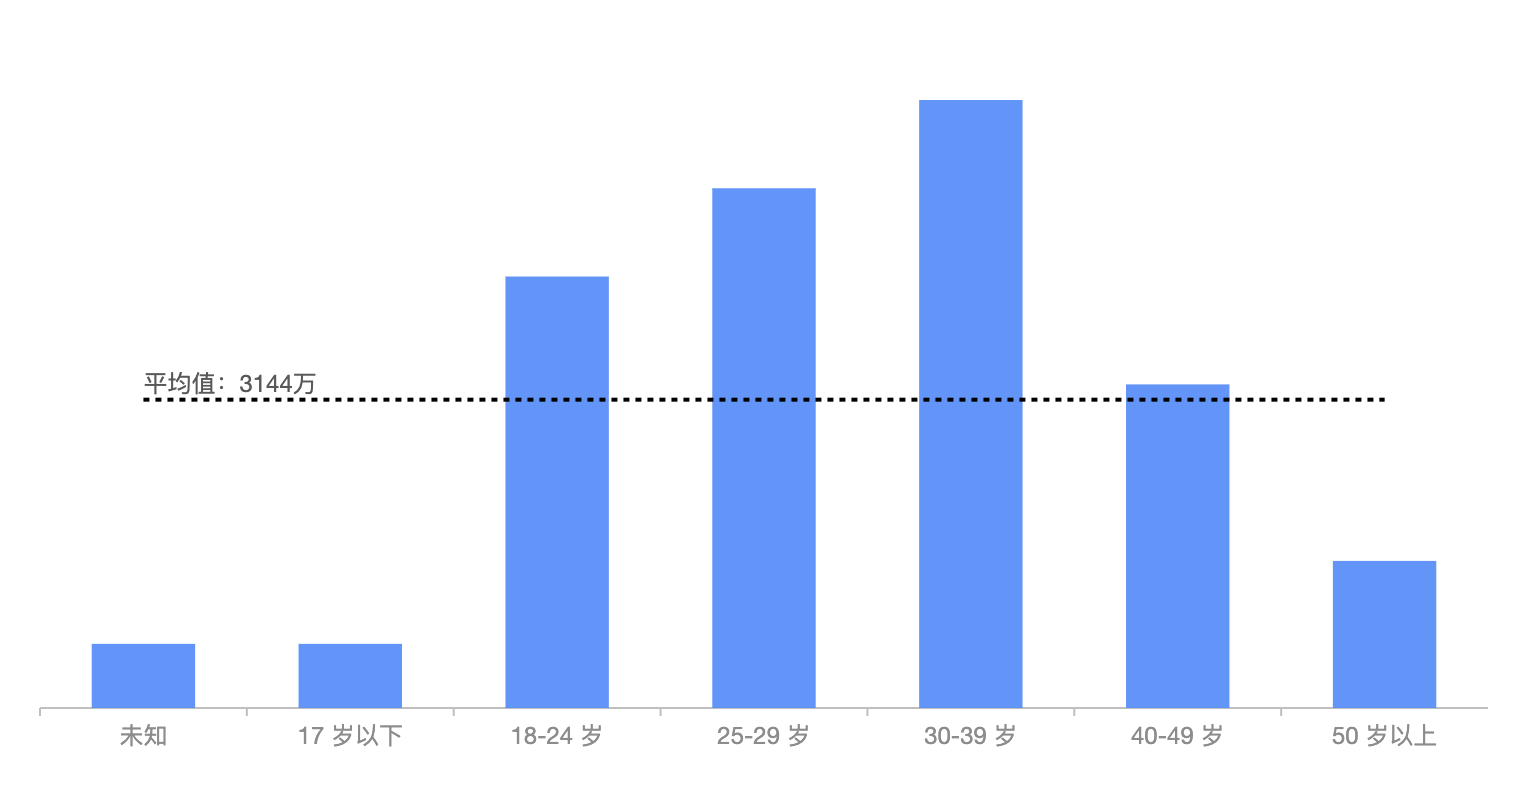
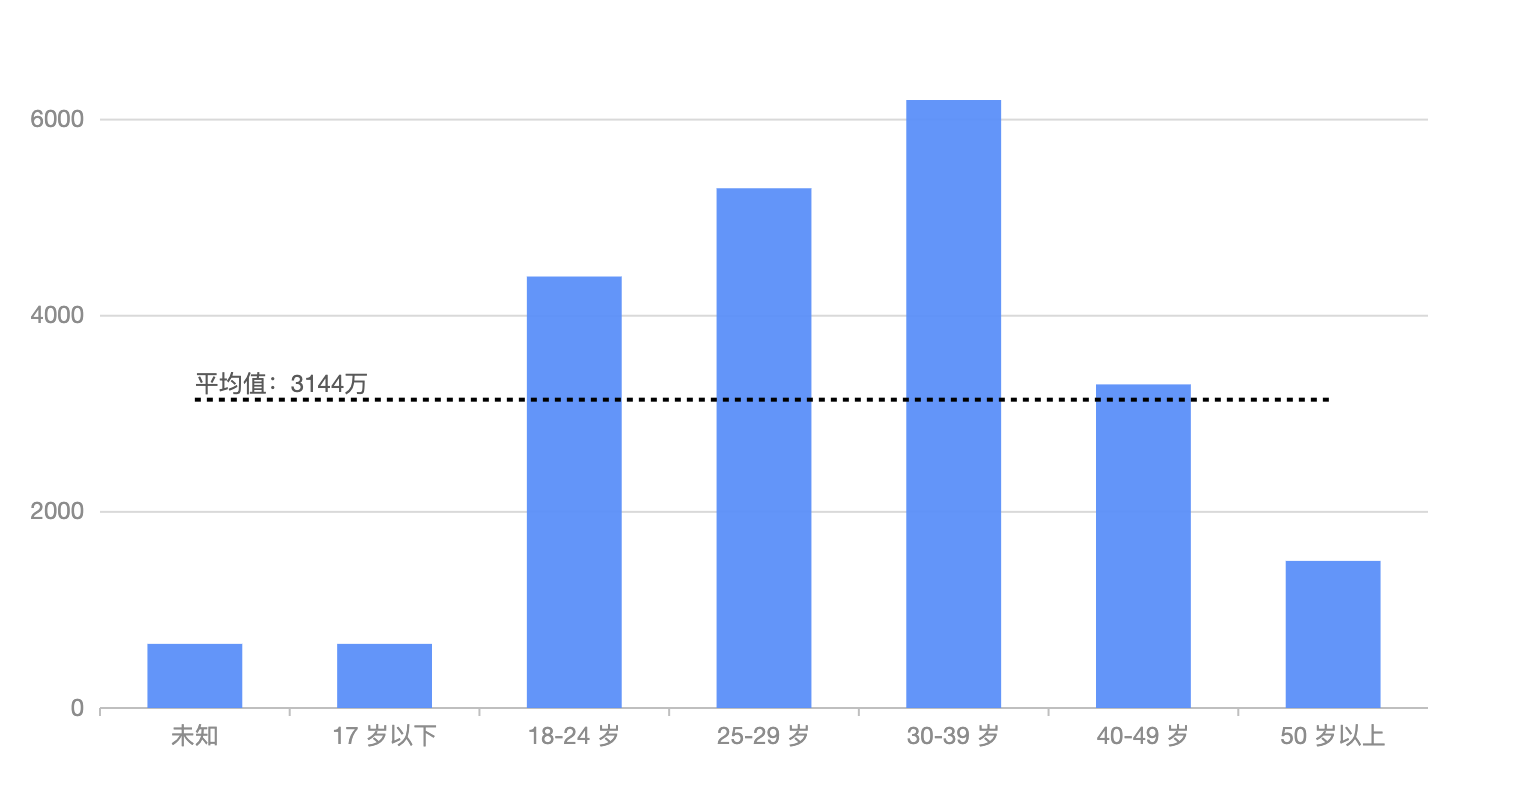
feat: update

diff --git a/docs/articles/annotation.md b/docs/articles/annotation.md
@@ -29,7 +29,7 @@ const chart = new Chart({
   container: 'container',
   autoFit: true,
   height: 500,
-  padding: [50, 20, 50, 20],
+  padding: [50],
 })
 chart.data(data)
 chart.scale('value', {
@@ -41,7 +41,7 @@ chart.axis('type', {
     alignTick: false,
   },
 })
-chart.axis('value', false)
+// chart.axis('value', false)
 
 chart.tooltip({
   showMarkers: false,
